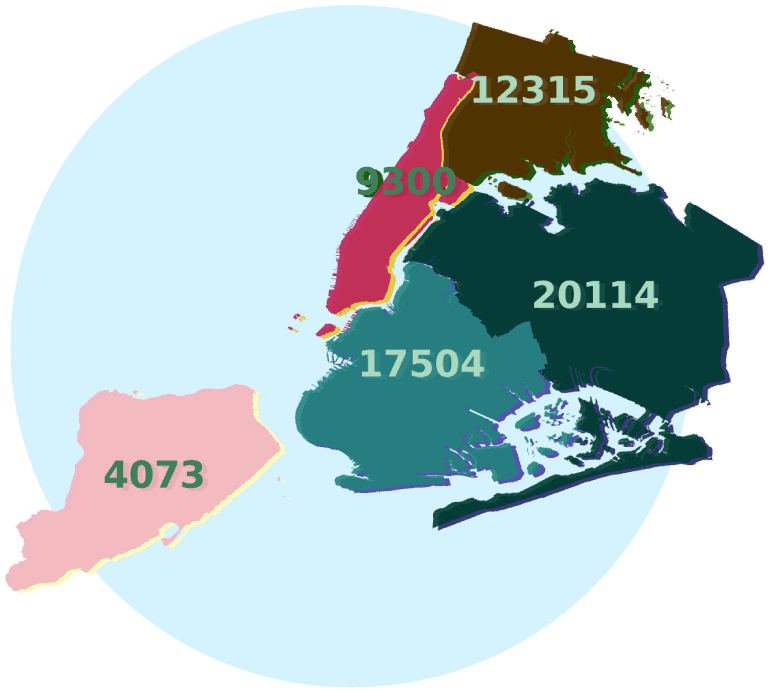
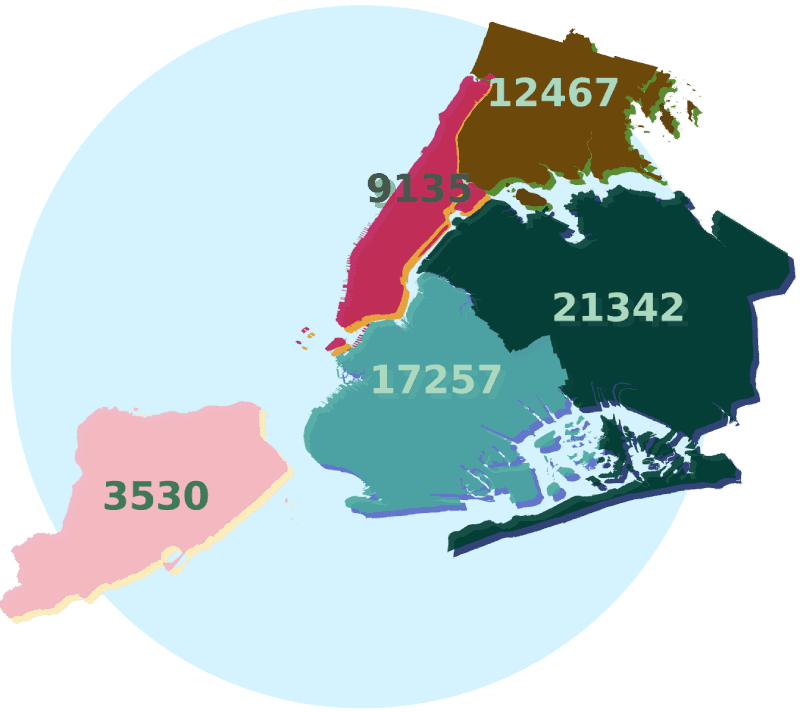
updated nyc

diff --git a/pages/index.py b/pages/index.py
@@ -85,7 +85,7 @@ fig_area_nyc_percentage_change.layout.margin.update({'t':0, 'b':0, 'r': 0, 'l': 
 pop_queens =["Queens Residents Positive with Covid-19","Rest of Queens Residents"]
 color_pop_queens = ["#C02059","#94D7CD"]
 
-fig_pie_pop_queens = go.Figure(data=[go.Pie(labels=pop_queens, values=[20114,2229886],marker=dict(colors=color_pop_queens))])#,pull=[0.4, 0]
+fig_pie_pop_queens = go.Figure(data=[go.Pie(labels=pop_queens, values=[21342,2251658],marker=dict(colors=color_pop_queens))])#,pull=[0.4, 0]
 
 # Use `hole` to create a donut-like pie chart
 fig_pie_pop_queens.update_traces(hole=.4, hoverinfo="label+percent+name+value",
@@ -97,7 +97,7 @@ fig_pie_pop_queens.update_traces(hole=.4, hoverinfo="label+percent+name+value",
 fig_pie_pop_queens.update_layout(
     annotations = [dict(text=pop_queens[0], x=0.498, y=0.998, font_size=11, showarrow=True)],
     title={
-        'text':"PERCENTAGE OF PEOPLE WITH COVID-19 IN<br>QUEENS NYC ASSUMING THE POPULATION IS 2.273 MILLION AS OF April 4",
+        'text':"PERCENTAGE OF PEOPLE WITH COVID-19 IN<br>QUEENS NYC ASSUMING THE POPULATION IS 2.273 MILLION AS OF April 5, 10 AM",
         'y':.95,
         'x':0.5,
         'xanchor': 'center',
@@ -112,7 +112,7 @@ fig_pie_pop_queens.update_layout(
 pop_nyc =["NYC Residents Positive with Covid-19","Rest of NYC Residents"]
 color_pop_nyc = ["#C02059","#003C30"]
 
-fig_pie_pop_nyc = go.Figure(data=[go.Pie(labels=pop_nyc, values=[63306,8436694],marker=dict(colors=color_pop_nyc))])#,pull=[0.4, 0]
+fig_pie_pop_nyc = go.Figure(data=[go.Pie(labels=pop_nyc, values=[63767,8436233],marker=dict(colors=color_pop_nyc))])#,pull=[0.4, 0]
 
 # Use `hole` to create a donut-like pie chart
 fig_pie_pop_nyc.update_traces(hole=.4, hoverinfo="label+percent+name+value",
@@ -124,7 +124,7 @@ fig_pie_pop_nyc.update_traces(hole=.4, hoverinfo="label+percent+name+value",
 fig_pie_pop_nyc.update_layout(
     annotations = [dict(text=pop_nyc[0], x=0.498, y=0.998, font_size=11, showarrow=True)],
     title={
-        'text':"PERCENTAGE OF PEOPLE WITH COVID-19 IN<br>ALL OF NYC ASSUMING THE POPULATION IS 8.5 MILLION AS OF April 4",
+        'text':"PERCENTAGE OF PEOPLE WITH COVID-19 IN<br>ALL OF NYC ASSUMING THE POPULATION IS 8.5 MILLION AS OF April 5, 10 AM",
         'y':.95,
         'x':0.5,
         'xanchor': 'center',
@@ -139,7 +139,7 @@ fig_pie_pop_nyc.update_layout(
 age = ["0 to 17<br>years old", "18 to 44<br>years old", "45 to 64<br>years old", "65 to 74<br>years old", "75 years old<br>and over", "Unknown"]
 age_color = ["#94D6CC","#003D30","#F3B3C3","#ffcece","#543000", "#047484"]
 
-fig_pie_nyc_age = go.Figure(data=[go.Pie(labels=age, values=[988, 22434, 19971, 7064, 5709, 123], name="Age Group",marker=dict(colors=age_color))])#,pull=[0.4, 0]
+fig_pie_nyc_age = go.Figure(data=[go.Pie(labels=age, values=[1124, 24994, 22694, 8097, 6722, 136], name="Age Group",marker=dict(colors=age_color))])#,pull=[0.4, 0]
 
 # Use `hole` to create a donut-like pie chart
 fig_pie_nyc_age.update_traces(hole=.4, hoverinfo="label+percent+name+value",
@@ -150,7 +150,7 @@ fig_pie_nyc_age.update_traces(hole=.4, hoverinfo="label+percent+name+value",
 
 fig_pie_nyc_age.update_layout(
     title={
-        'text':"AGE RANGE OF PEOPLE <br>WITH COVID-19 (63,306) IN<br>NYC AS OF April 4",
+        'text':"AGE RANGE OF PEOPLE <br>WITH COVID-19 (63,767) IN<br>NYC AS OF April 5, 10 AM",
         'y':0.95,
         'x':0.5,
         'xanchor': 'center',
@@ -163,10 +163,10 @@ fig_pie_nyc_age.update_layout(
 #-------------------------------------------------------------AGE RANGE OF PEOPLE POSITIVE
 
 
-gender =["Female","Male"]
-gender_color = ["#94D6CC","#003C30"]
+gender =["Female","Male","Unknown"]
+gender_color = ["#94D6CC","#003C30","#003D30"]
 
-fig_pie_nyc_gender = go.Figure(data=[go.Pie(labels=gender, values=[25536,30672], name="Gender",marker=dict(colors=gender_color))])#,pull=[0.4, 0]
+fig_pie_nyc_gender = go.Figure(data=[go.Pie(labels=gender, values=[29037,34640,90], name="Gender",marker=dict(colors=gender_color))])#,pull=[0.4, 0]
 
 # Use `hole` to create a donut-like pie chart
 fig_pie_nyc_gender.update_traces(hole=.4, hoverinfo="label+percent+name+value",
@@ -177,7 +177,7 @@ fig_pie_nyc_gender.update_traces(hole=.4, hoverinfo="label+percent+name+value",
 
 fig_pie_nyc_gender.update_layout(
     title={
-        'text':"GENDER IDENTITY OF PEOPLE <br>WITH COVID-19 (63,306) IN<br>NYC AS OF April 4",
+        'text':"GENDER IDENTITY OF PEOPLE <br>WITH COVID-19 (63,767) IN<br>NYC AS OF April 5, 10 AM",
         'y':0.95,
         'x':0.5,
         'xanchor': 'center',
@@ -191,7 +191,7 @@ fig_pie_nyc_gender.update_layout(
 age_of_death = ["0 to 17", "18 to 44", "45 to 64", "65 to 74 ", "75 and over"]
 death_age_color = ["#94D6CC","#003D30","#F3B3C3","#ffcece","#047484"]
 
-fig_pie_nyc_death_age = go.Figure(data=[go.Pie(labels=age_of_death, values=[1, 110, 442, 461, 853], name="Age of Death",marker=dict(colors=death_age_color))])#,pull=[0.4, 0]
+fig_pie_nyc_death_age = go.Figure(data=[go.Pie(labels=age_of_death, values=[2, 132, 535, 557, 1030], name="Age of Death",marker=dict(colors=death_age_color))])#,pull=[0.4, 0]
 
 # Use `hole` to create a donut-like pie chart
 fig_pie_nyc_death_age.update_traces(hole=.4, hoverinfo="label+percent+name+value",
@@ -202,7 +202,7 @@ fig_pie_nyc_death_age.update_traces(hole=.4, hoverinfo="label+percent+name+value
 
 fig_pie_nyc_death_age.update_layout(
     title={
-        'text':"AGE RANGE OF PEOPLE WHO<br>PASSED AWAY FROM WITH COVID-19 (2,624) IN<br>NYC AS OF April 4",
+        'text':"AGE RANGE OF PEOPLE WHO<br>PASSED AWAY FROM WITH COVID-19 (2,256) IN<br>NYC AS OF April 5, 10 AM",
         'y':0.95,
         'x':0.5,
         'xanchor': 'center',
@@ -216,7 +216,7 @@ fig_pie_nyc_death_age.update_layout(
 gender_death =["Female","Male"]
 color_gender_death = ["#94D6CC","#003C30"]
 
-fig_pie_nyc_death_gender = go.Figure(data=[go.Pie(labels=gender_death, values=[706, 1159], name="Age of Death",marker=dict(colors=color_gender_death))])#,pull=[0.4, 0]
+fig_pie_nyc_death_gender = go.Figure(data=[go.Pie(labels=gender_death, values=[837, 1417], name="Age of Death",marker=dict(colors=color_gender_death))])#,pull=[0.4, 0]
 
 # Use `hole` to create a donut-like pie chart
 fig_pie_nyc_death_gender.update_traces(hole=.4, hoverinfo="label+percent+name+value",
@@ -227,7 +227,7 @@ fig_pie_nyc_death_gender.update_traces(hole=.4, hoverinfo="label+percent+name+va
 
 fig_pie_nyc_death_gender.update_layout(
     title={
-        'text':"GENDER IDENTITY OF PEOPLE WHO<br>PASSED AWAY FROM WITH COVID-19 (2,624) IN<br>NYC AS OF April 4",
+        'text':"GENDER IDENTITY OF PEOPLE WHO<br>PASSED AWAY FROM WITH COVID-19 (2,256) IN<br>NYC AS OF April 5, 10 AM",
         'y':0.95,
         'x':0.5,
         'xanchor': 'center',
@@ -241,7 +241,7 @@ fig_pie_nyc_death_gender.update_layout(
 underlying_illness =["Had Underlying Illness","Did Not", "Unknown"]
 underlying_illness_color = ["#BF1F57","#94D7CD","#003C2F"]
 
-fig_pie_nyc_death_illness = go.Figure(data=[go.Pie(labels=underlying_illness, values=[1285,28,554], name="Age of Death",marker=dict(colors=underlying_illness_color))])#,pull=[0.4, 0]
+fig_pie_nyc_death_illness = go.Figure(data=[go.Pie(labels=underlying_illness, values=[1503,38,715], name="Age of Death",marker=dict(colors=underlying_illness_color))])#,pull=[0.4, 0]
 
 # Use `hole` to create a donut-like pie chart
 fig_pie_nyc_death_illness.update_traces(hole=.4, hoverinfo="label+percent+name+value",
@@ -252,7 +252,7 @@ fig_pie_nyc_death_illness.update_traces(hole=.4, hoverinfo="label+percent+name+v
 
 fig_pie_nyc_death_illness.update_layout(
     title={
-        'text':"EXISTENCE OF UNDERLYING ILLNESS OF PEOPLE WHO<br>PASSED AWAY FROM WITH COVID-19 (2,624) IN<br>NYC AS OF April 4",
+        'text':"EXISTENCE OF UNDERLYING ILLNESS OF PEOPLE WHO<br>PASSED AWAY FROM WITH COVID-19 (2,256) IN<br>NYC AS OF April 5, 10 AM",
         'y':0.95,
         'x':0.5,
         'xanchor': 'center',
@@ -1602,13 +1602,13 @@ columnTopRight = dbc.Col(
         html.Center(
             children=[
             html.H6('Positive Cases NYC', style={'fontSize':20, 'color':'#14c5fa', 'marginTop':0, 'marginBottom':8}),#fig_line_cumulative_us_italy_china
-            html.H1('63,306', style={'fontSize':70, 'color':'#5CD8FE', 'marginBottom':0}),#fig_line_cumulative_us_italy_china
+            html.H1('63,767', style={'fontSize':70, 'color':'#5CD8FE', 'marginBottom':0}),#fig_line_cumulative_us_italy_china
             html.H6('Deaths NYC', style={'fontSize':11, 'color':'#14c5fa', 'marginTop':10, 'marginBottom':0}),#fig_line_cumulative_us_italy_china
-            html.H6('2,624*', style={'fontSize':42, 'color':'#5CD8FE', 'marginTop':10}),#fig_line_cumulative_us_italy_china
-            html.H6('* We believe there may be a discrepancy as on Friday, April 3rd, the cumulative deaths for NYC was around 1,800. Data above from NY State Dept. of Health April 4', style={'fontSize':8, 'color':'#05b9f0', 'marginTop':10, 'marginBottom':0}),#fig_line_cumulative_us_italy_china
+            html.H6('2,256', style={'fontSize':42, 'color':'#5CD8FE', 'marginTop':10}),#fig_line_cumulative_us_italy_china
+            html.H6('The data above is from the NYC Dept. of Health updated there on April 5, 10 AM', style={'fontSize':8, 'color':'#05b9f0', 'marginTop':10, 'marginBottom':0}),#fig_line_cumulative_us_italy_china
             html.H6('Positive Cases by Borough', style={'fontSize':20, 'color':'#208fb1', 'marginTop':20}),
             html.Img(src=app.get_asset_url('NYC_Covid-19_Cases_today.png'), style={'display': 'block', 'height':300}),
-            html.H6('Data from NY State Dept. of Health April 4', style={'fontSize':8, 'color':'#05b9f0', 'marginTop':30, 'marginBottom':8}),
+            html.H6('Data from NY State Dept. of Health April 5, 10 AM', style={'fontSize':8, 'color':'#05b9f0', 'marginTop':30, 'marginBottom':8}),
             ]
         ),
     ],
@@ -1960,7 +1960,7 @@ column_data_sources = dbc.Col(
             children=[
                 html.H6('Data Sources' , style={'fontSize':23, 'color':'#05b9f0', 'marginTop':0, 'marginBottom':8}),
                 html.Hr(className="my-2"),
-                dbc.Button('New York City Government Department of Health', color="link",href = "https://www1.nyc.gov/assets/doh/downloads/pdf/imm/covid-19-daily-data-summary.pdf",style={'marginBottom':0, 'marginTop':0}), 
+                dbc.Button('New York City Government Department of Health', color="link",href = "https://www1.nyc.gov/assets/doh/downloads/pdf/imm/covid-19-daily-data-summary-04052020-1.pdf",style={'marginBottom':0, 'marginTop':0}), 
                 html.P('The official New York City Government Department of Health website.', style={'fontSize':16, 'color':'link', 'marginTop':0, 'marginBottom':0}),
                 dbc.Button('New York State Government Department of Health', color="link",href = "https://coronavirus.health.ny.gov/county-county-breakdown-positive-cases",style={'marginBottom':0, 'marginTop':0}), 
                 html.P('The official New York State Government Department of Health website.', style={'fontSize':16, 'color':'link', 'marginTop':0, 'marginBottom':0}),
